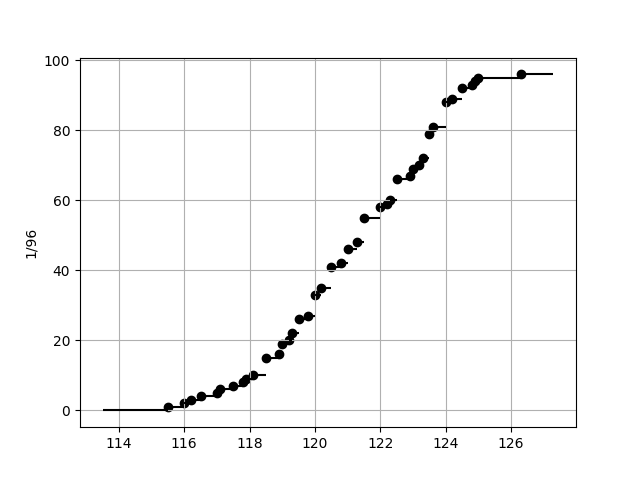
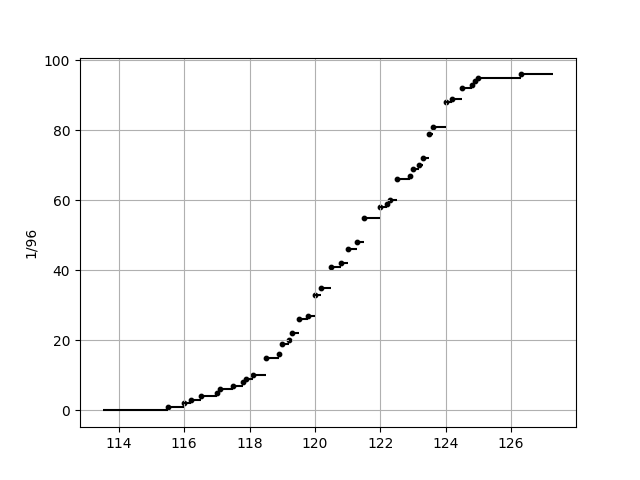
Finish r1z1

diff --git a/Classes.py b/Classes.py
@@ -70,7 +70,7 @@ class R1Z1:
                     y=points_y[i - 1], xmin=points_x[i - 1], xmax=points_x[i], colors='black')
         plt.hlines(y=points_y[-1], xmin=points_x[-1],
                    xmax=points_x[-1] + 1, colors='black')
-        plt.scatter(points_x[1:], points_y[1:], color="black")
+        plt.scatter(points_x[1:], points_y[1:], color="black", s=10)
         plt.ylabel(f"1/{ln}")
         plt.grid(True)
         plt.savefig(path)
